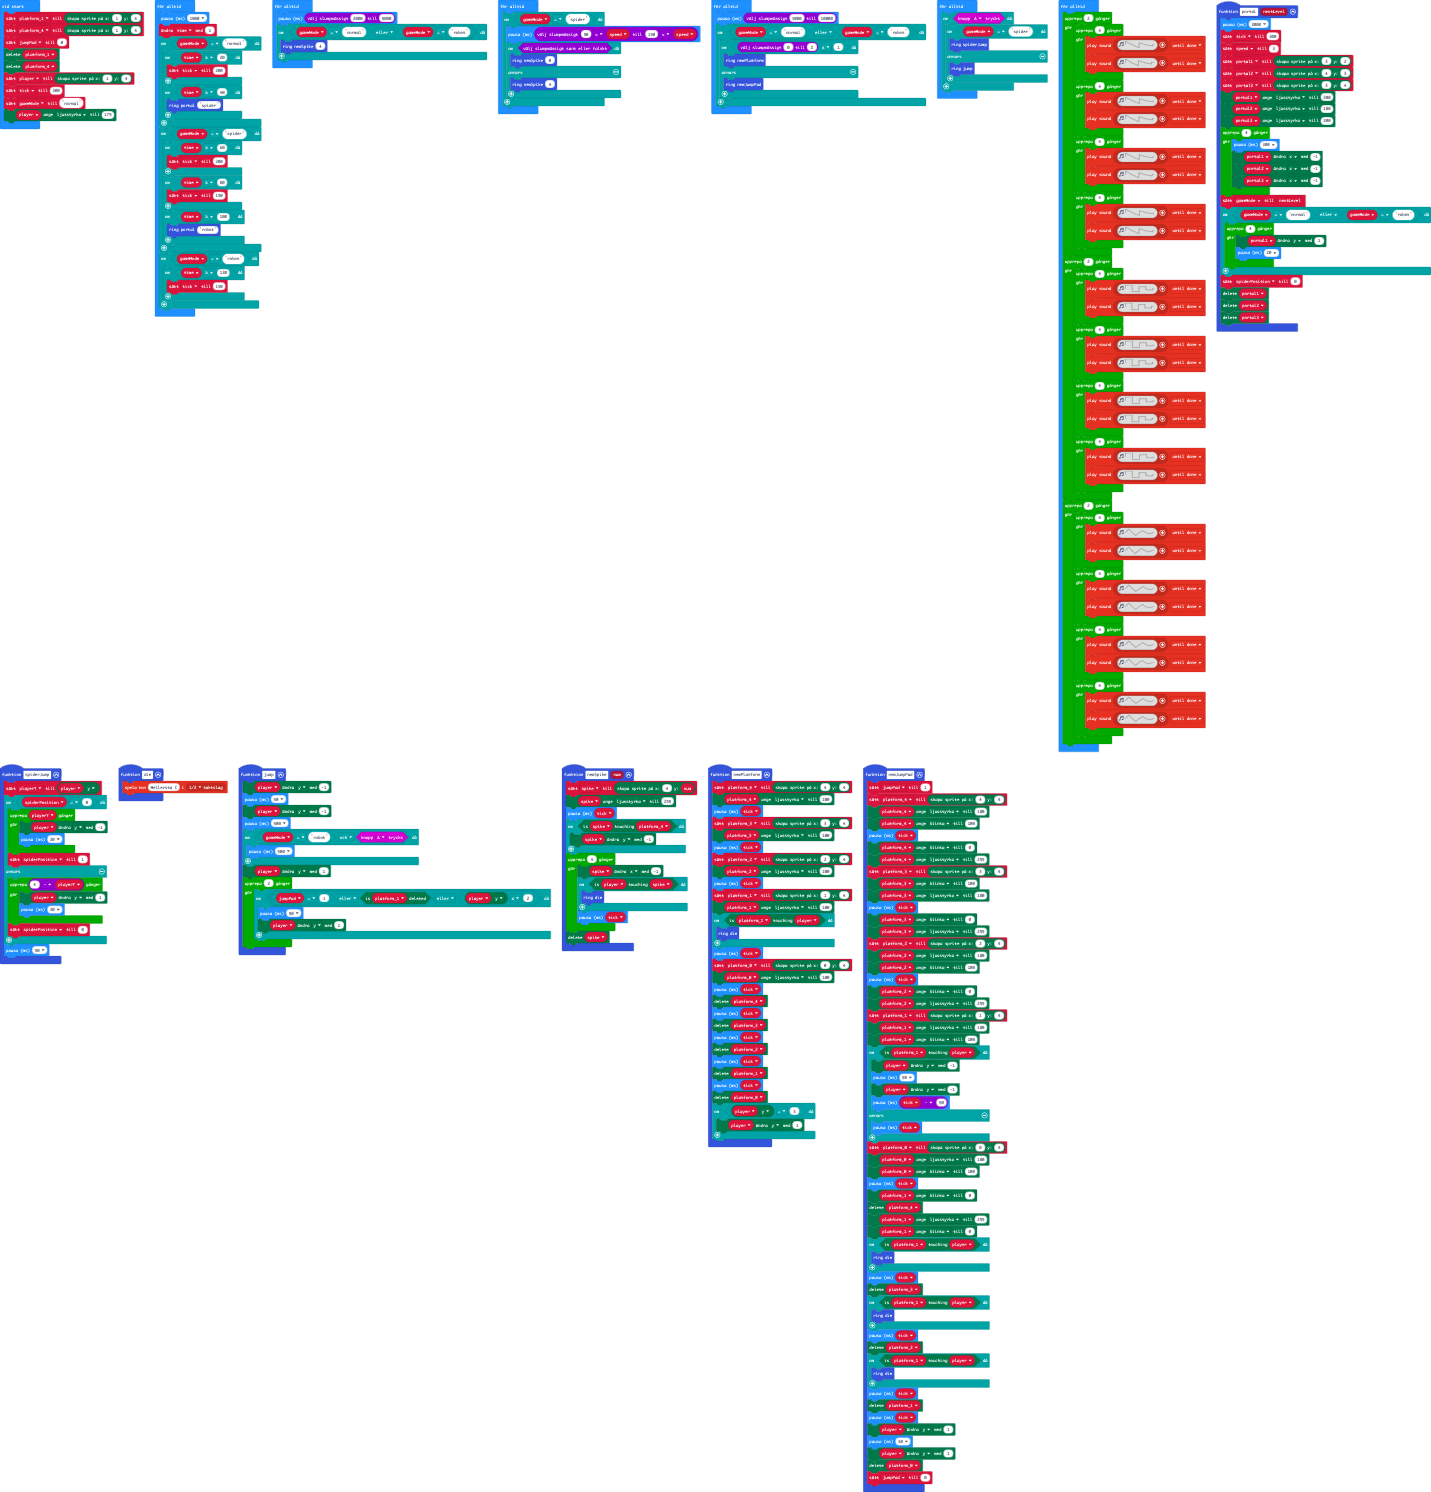
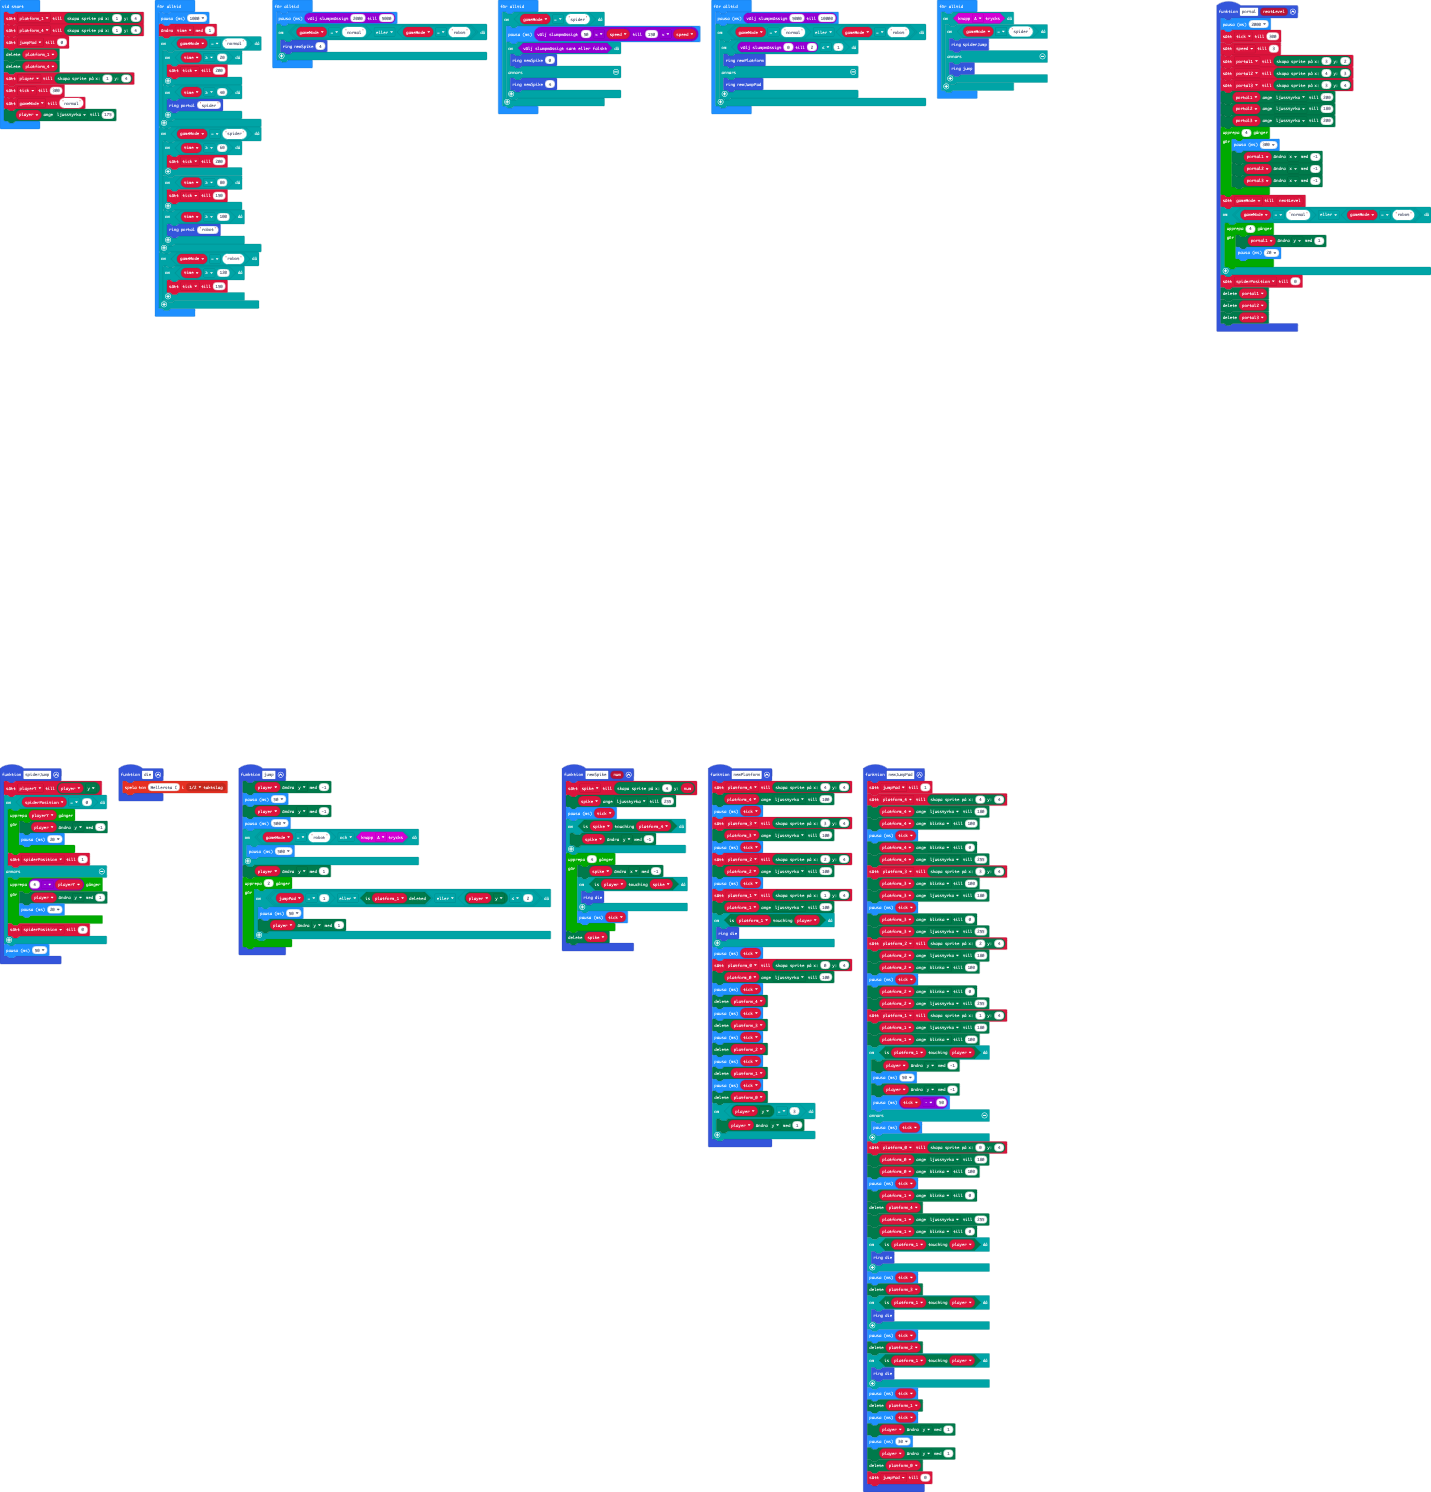
Removed the musci, didn't work on the Micro:Bit. Maybe because v.1 is used.

Changed region(s): [[0.7379, 0.0, 0.8609, 0.5241]]

diff --git a/main.ts b/main.ts
@@ -260,59 +260,3 @@ basic.forever(function () {
         }
     }
 })
-basic.forever(function () {
-    for (let index = 0; index < 2; index++) {
-        for (let index = 0; index < 4; index++) {
-            music.playSoundEffect(music.createSoundEffect(WaveShape.Sawtooth, 523, 523, 255, 0, 200, SoundExpressionEffect.None, InterpolationCurve.Linear), SoundExpressionPlayMode.UntilDone)
-            music.playSoundEffect(music.createSoundEffect(WaveShape.Sawtooth, 784, 784, 255, 0, 200, SoundExpressionEffect.None, InterpolationCurve.Linear), SoundExpressionPlayMode.UntilDone)
-        }
-        for (let index = 0; index < 4; index++) {
-            music.playSoundEffect(music.createSoundEffect(WaveShape.Sawtooth, 392, 392, 255, 0, 200, SoundExpressionEffect.None, InterpolationCurve.Linear), SoundExpressionPlayMode.UntilDone)
-            music.playSoundEffect(music.createSoundEffect(WaveShape.Sawtooth, 587, 587, 255, 0, 200, SoundExpressionEffect.None, InterpolationCurve.Linear), SoundExpressionPlayMode.UntilDone)
-        }
-        for (let index = 0; index < 4; index++) {
-            music.playSoundEffect(music.createSoundEffect(WaveShape.Sawtooth, 440, 440, 255, 0, 200, SoundExpressionEffect.None, InterpolationCurve.Linear), SoundExpressionPlayMode.UntilDone)
-            music.playSoundEffect(music.createSoundEffect(WaveShape.Sawtooth, 659, 659, 255, 0, 200, SoundExpressionEffect.None, InterpolationCurve.Linear), SoundExpressionPlayMode.UntilDone)
-        }
-        for (let index = 0; index < 4; index++) {
-            music.playSoundEffect(music.createSoundEffect(WaveShape.Sawtooth, 349, 349, 255, 0, 200, SoundExpressionEffect.None, InterpolationCurve.Linear), SoundExpressionPlayMode.UntilDone)
-            music.playSoundEffect(music.createSoundEffect(WaveShape.Sawtooth, 523, 523, 255, 0, 200, SoundExpressionEffect.None, InterpolationCurve.Linear), SoundExpressionPlayMode.UntilDone)
-        }
-    }
-    for (let index = 0; index < 2; index++) {
-        for (let index = 0; index < 4; index++) {
-            music.playSoundEffect(music.createSoundEffect(WaveShape.Square, 523, 523, 255, 0, 200, SoundExpressionEffect.None, InterpolationCurve.Linear), SoundExpressionPlayMode.UntilDone)
-            music.playSoundEffect(music.createSoundEffect(WaveShape.Square, 784, 784, 255, 0, 200, SoundExpressionEffect.None, InterpolationCurve.Linear), SoundExpressionPlayMode.UntilDone)
-        }
-        for (let index = 0; index < 4; index++) {
-            music.playSoundEffect(music.createSoundEffect(WaveShape.Square, 392, 392, 255, 0, 200, SoundExpressionEffect.None, InterpolationCurve.Linear), SoundExpressionPlayMode.UntilDone)
-            music.playSoundEffect(music.createSoundEffect(WaveShape.Square, 587, 587, 255, 0, 200, SoundExpressionEffect.None, InterpolationCurve.Linear), SoundExpressionPlayMode.UntilDone)
-        }
-        for (let index = 0; index < 4; index++) {
-            music.playSoundEffect(music.createSoundEffect(WaveShape.Square, 440, 440, 255, 0, 200, SoundExpressionEffect.None, InterpolationCurve.Linear), SoundExpressionPlayMode.UntilDone)
-            music.playSoundEffect(music.createSoundEffect(WaveShape.Square, 659, 659, 255, 0, 200, SoundExpressionEffect.None, InterpolationCurve.Linear), SoundExpressionPlayMode.UntilDone)
-        }
-        for (let index = 0; index < 4; index++) {
-            music.playSoundEffect(music.createSoundEffect(WaveShape.Square, 349, 349, 255, 0, 200, SoundExpressionEffect.None, InterpolationCurve.Linear), SoundExpressionPlayMode.UntilDone)
-            music.playSoundEffect(music.createSoundEffect(WaveShape.Square, 523, 523, 255, 0, 200, SoundExpressionEffect.None, InterpolationCurve.Linear), SoundExpressionPlayMode.UntilDone)
-        }
-    }
-    for (let index = 0; index < 2; index++) {
-        for (let index = 0; index < 4; index++) {
-            music.playSoundEffect(music.createSoundEffect(WaveShape.Triangle, 523, 523, 255, 0, 200, SoundExpressionEffect.None, InterpolationCurve.Linear), SoundExpressionPlayMode.UntilDone)
-            music.playSoundEffect(music.createSoundEffect(WaveShape.Triangle, 784, 784, 255, 0, 200, SoundExpressionEffect.None, InterpolationCurve.Linear), SoundExpressionPlayMode.UntilDone)
-        }
-        for (let index = 0; index < 4; index++) {
-            music.playSoundEffect(music.createSoundEffect(WaveShape.Triangle, 392, 392, 255, 0, 200, SoundExpressionEffect.None, InterpolationCurve.Linear), SoundExpressionPlayMode.UntilDone)
-            music.playSoundEffect(music.createSoundEffect(WaveShape.Triangle, 587, 587, 255, 0, 200, SoundExpressionEffect.None, InterpolationCurve.Linear), SoundExpressionPlayMode.UntilDone)
-        }
-        for (let index = 0; index < 4; index++) {
-            music.playSoundEffect(music.createSoundEffect(WaveShape.Triangle, 440, 440, 255, 0, 200, SoundExpressionEffect.None, InterpolationCurve.Linear), SoundExpressionPlayMode.UntilDone)
-            music.playSoundEffect(music.createSoundEffect(WaveShape.Triangle, 659, 659, 255, 0, 200, SoundExpressionEffect.None, InterpolationCurve.Linear), SoundExpressionPlayMode.UntilDone)
-        }
-        for (let index = 0; index < 4; index++) {
-            music.playSoundEffect(music.createSoundEffect(WaveShape.Triangle, 349, 349, 255, 0, 200, SoundExpressionEffect.None, InterpolationCurve.Linear), SoundExpressionPlayMode.UntilDone)
-            music.playSoundEffect(music.createSoundEffect(WaveShape.Triangle, 523, 523, 255, 0, 200, SoundExpressionEffect.None, InterpolationCurve.Linear), SoundExpressionPlayMode.UntilDone)
-        }
-    }
-})
